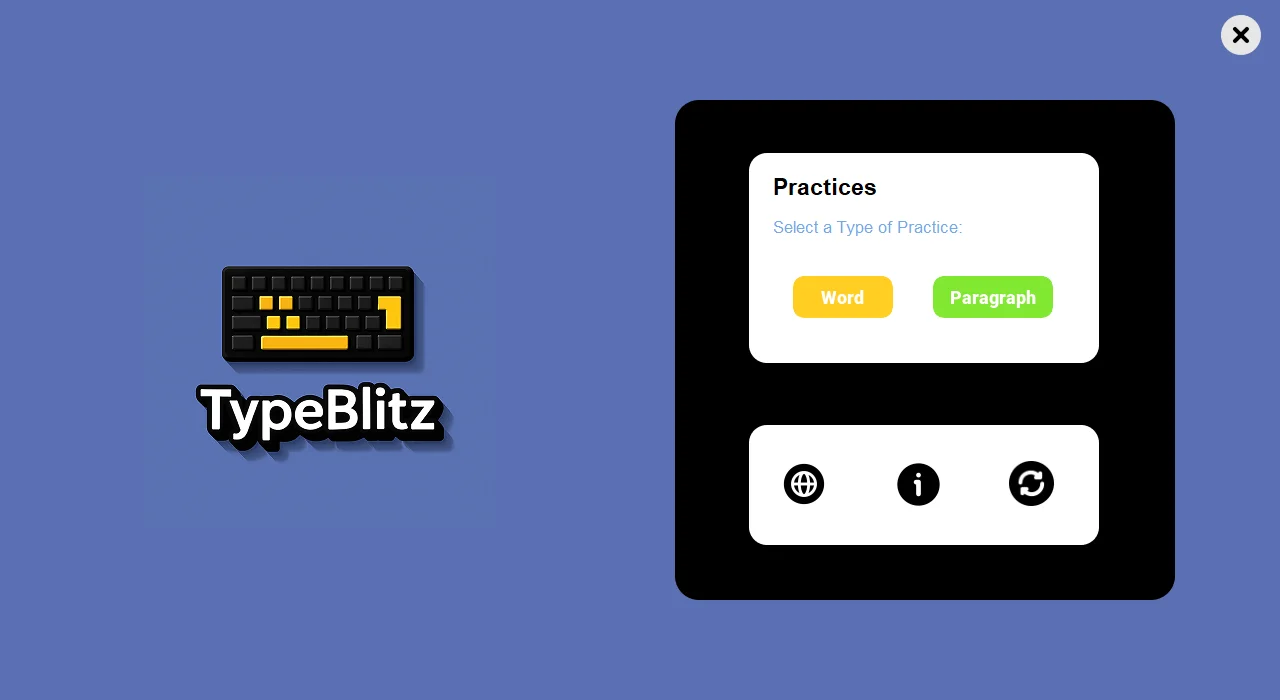
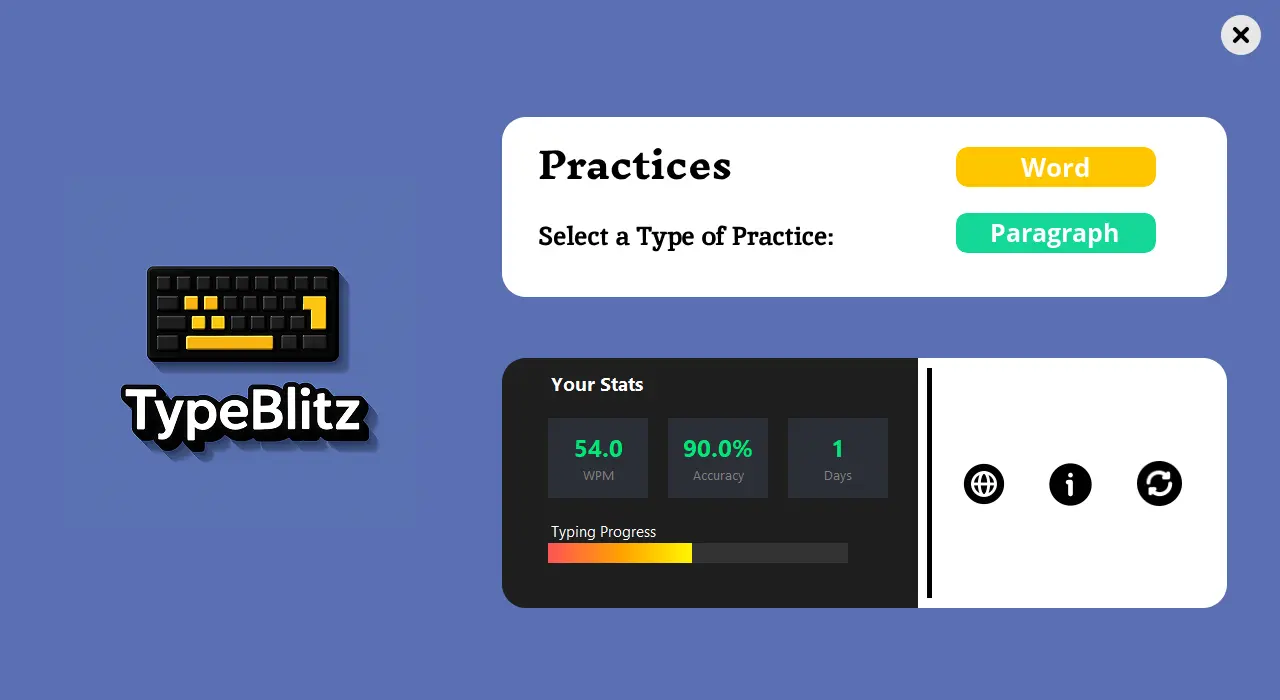
feat: update dependencies in package-lock.json; add new ignore module and upgrade existing packages Refactor code structure for improved readability and maintainabilitya

diff --git a/src/components/Screenshots.tsx b/src/components/Screenshots.tsx
@@ -19,7 +19,7 @@ const screenshotData = [
   {
     title: "Performance Stats",
     description: "View detailed analytics of your typing performance.",
-    image: "https://placehold.co/600x400/222/E6FF00?text=Stats&font=montserrat",
+    image: "assets/images/screenshots/performance-history.webp",
   },
   {
     title: "Auto Update Check",
